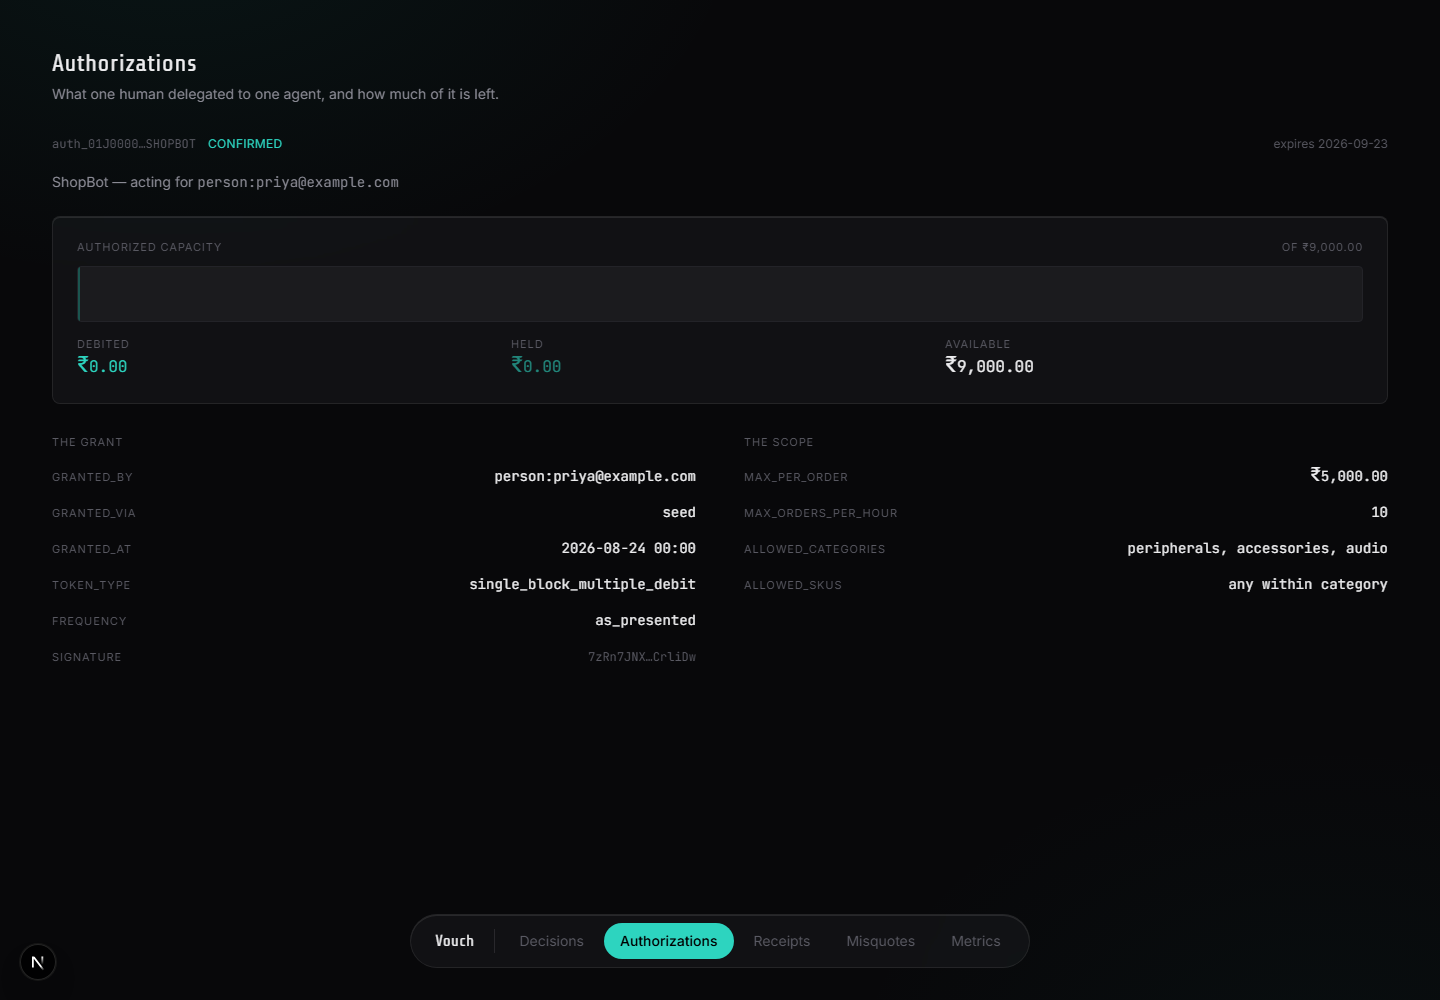
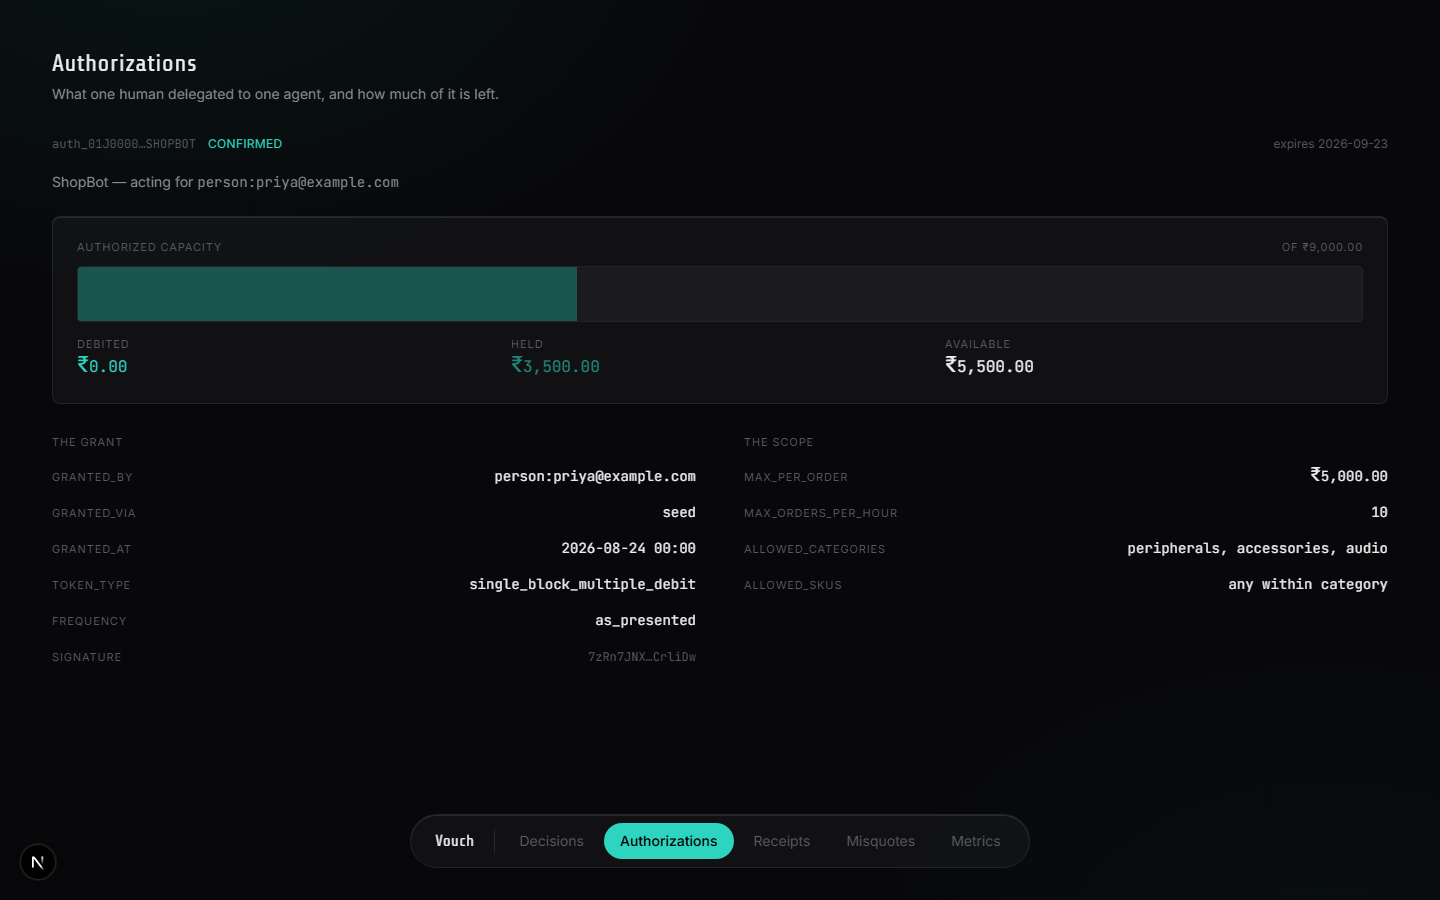
fix: decisions page showed raw paise in the reason line
"asked 1860000 - limit 500000" is the single number a judge reads, and it was
unreadable. Now "asked Rs 18,600.00 - limit Rs 5,000.00".

Formatting lives in the shared console ui module, not the page: adding it inline
pushed the page to 63 lines and the max-lines boundary caught it, which is what
that rule is for.

diff --git a/src/app/(console)/decisions/page.tsx b/src/app/(console)/decisions/page.tsx
@@ -1,5 +1,5 @@
 import { decisionTotals, listDecisions } from "@/core/db/queries";
-import { Empty, Id, Money, Outcome, PageHeading, StatTile } from "../ui";
+import { asMoney, Empty, Id, Money, Outcome, PageHeading, StatTile } from "../ui";
 
 // Reads live data on every request. Without this Next prerenders it and bakes the seed in.
 export const dynamic = "force-dynamic";
@@ -45,7 +45,9 @@ export default async function DecisionsPage() {
                     <>
                       <div className="font-mono text-xs">{d.reasons[0].code}</div>
                       {d.reasons[0].observed && (
-                        <div className="text-xs text-fg-3">asked {d.reasons[0].observed} · limit {String(d.reasons[0].expected)}</div>
+                        <div className="text-xs text-fg-3">
+                          asked {asMoney(d.reasons[0].observed)} · limit {asMoney(d.reasons[0].expected)}
+                        </div>
                       )}
                     </>
                   )}

diff --git a/src/app/(console)/ui.tsx b/src/app/(console)/ui.tsx
@@ -61,3 +61,9 @@ export function Empty({ title, hint }: { title: string; hint: string }) {
     </div>
   );
 }
+
+/** Reason values carry paise as strings. A count (catalog.inventory) is left alone. */
+export function asMoney(value: string | string[] | undefined): string {
+  if (typeof value !== "string" || !/^\d+$/.test(value)) return String(value ?? "—");
+  return formatInr(BigInt(value));
+}
